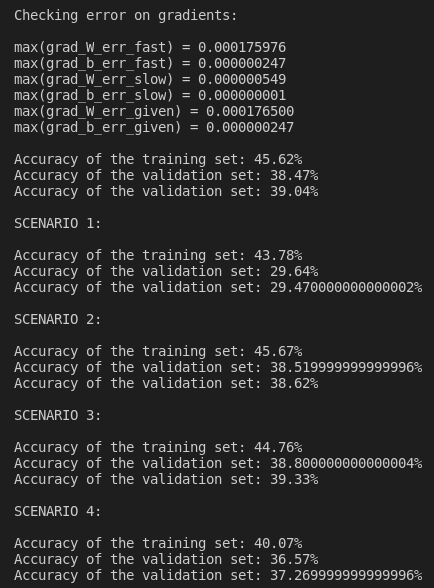
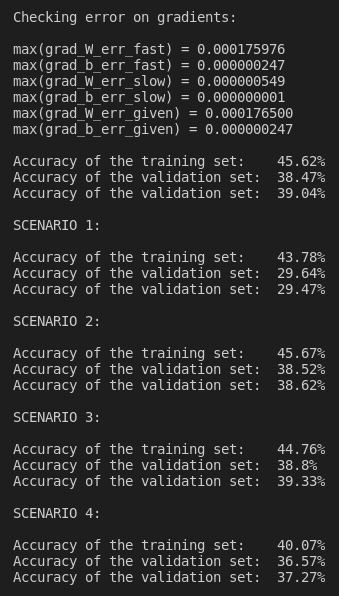
fixed displaying accuracies

Changed region(s): [[0.0295, 0.5816, 0.9735, 1.0], [0.0295, 0.0, 0.9735, 0.3367], [0.0295, 0.3673, 0.9735, 0.551]]

diff --git a/lab1.py b/lab1.py
@@ -232,39 +232,39 @@ def script(X_train, Y_train, X_valid, Y_valid, GDparams, lbda, scenario):
     acc_test = ComputeAccuracy(X_test, y_test, Wstar, bstar)
 
     print(f"SCENARIO {scenario}:\n")
-    print(f"Accuracy of the training set: {acc_train*100}%")
-    print(f"Accuracy of the validation set: {acc_valid*100}%")
-    print(f"Accuracy of the validation set: {acc_test*100}%\n")
+    print(f"Accuracy of the training set:\t {round(acc_train*100, 2)}%")
+    print(f"Accuracy of the validation set:\t {round(acc_valid*100, 2)}%")
+    print(f"Accuracy of the validation set:\t {round(acc_test*100, 2)}%\n")
 
-        # Plot learnt weight matrix
-    title = "Learnt weight matrix Wstar as class template images"
-    save_title = f"SCEN{scenario} - Wstar, lbda={lbda}, n_epochs={GDparams['n_epochs']}, n_batch={GDparams['n_batch']}, eta={GDparams['eta']}"
-    montage(Wstar, title, save_title)
+    #     # Plot learnt weight matrix
+    # title = "Learnt weight matrix Wstar as class template images"
+    # save_title = f"SCEN{scenario} - Wstar, lbda={lbda}, n_epochs={GDparams['n_epochs']}, n_batch={GDparams['n_batch']}, eta={GDparams['eta']}"
+    # montage(Wstar, title, save_title)
 
 
-        # Plot cost after each epoch
-    x_axis = np.array([np.arange(0, n_epochs), np.arange(0, n_epochs)])
-    y_axis = np.array([J_list_train, J_list_valid])
-    x_ticks = np.arange(0, n_epochs+1, 5)
-    legends = ["training", "validation"]
-    x_label = "epoch"
-    y_label = "cost function J"
-    title = "Cost after every epoch"
-    save_title = f"SCEN{scenario} - J, lbda={lbda}, n_epochs={GDparams['n_epochs']}, n_batch={GDparams['n_batch']}, eta={GDparams['eta']}"
+    #     # Plot cost after each epoch
+    # x_axis = np.array([np.arange(0, n_epochs), np.arange(0, n_epochs)])
+    # y_axis = np.array([J_list_train, J_list_valid])
+    # x_ticks = np.arange(0, n_epochs+1, 5)
+    # legends = ["training", "validation"]
+    # x_label = "epoch"
+    # y_label = "cost function J"
+    # title = "Cost after every epoch"
+    # save_title = f"SCEN{scenario} - J, lbda={lbda}, n_epochs={GDparams['n_epochs']}, n_batch={GDparams['n_batch']}, eta={GDparams['eta']}"
 
-    plot(x_axis, y_axis, x_ticks, legends, title, x_label, y_label, save_title)
+    # plot(x_axis, y_axis, x_ticks, legends, title, x_label, y_label, save_title)
 
-        # Plot loss after each epoch
-    x_axis = np.array([np.arange(0, n_epochs), np.arange(0, n_epochs)])
-    y_axis = np.array([loss_list_train, loss_list_valid])
-    x_ticks = np.arange(0, n_epochs+1, 5)
-    legends = ["training", "validation"]
-    x_label = "epoch"
-    y_label = "loss"
-    title = "Loss after every epoch"
-    save_title = f"SCEN{scenario} - Loss, lbda={lbda}, n_epochs={GDparams['n_epochs']}, n_batch={GDparams['n_batch']}, eta={GDparams['eta']}"
+    #     # Plot loss after each epoch
+    # x_axis = np.array([np.arange(0, n_epochs), np.arange(0, n_epochs)])
+    # y_axis = np.array([loss_list_train, loss_list_valid])
+    # x_ticks = np.arange(0, n_epochs+1, 5)
+    # legends = ["training", "validation"]
+    # x_label = "epoch"
+    # y_label = "loss"
+    # title = "Loss after every epoch"
+    # save_title = f"SCEN{scenario} - Loss, lbda={lbda}, n_epochs={GDparams['n_epochs']}, n_batch={GDparams['n_batch']}, eta={GDparams['eta']}"
 
-    plot(x_axis, y_axis, x_ticks, legends, title, x_label, y_label, save_title)
+    # plot(x_axis, y_axis, x_ticks, legends, title, x_label, y_label, save_title)
     
 
 
@@ -371,9 +371,9 @@ acc_train = ComputeAccuracy(X_train, y_train, Wstar, bstar)
 acc_valid = ComputeAccuracy(X_valid, y_valid, Wstar, bstar)
 acc_test = ComputeAccuracy(X_test, y_test, Wstar, bstar)
 
-print(f"\nAccuracy of the training set: {acc_train*100}%")
-print(f"Accuracy of the validation set: {acc_valid*100}%")
-print(f"Accuracy of the validation set: {acc_test*100}%\n")
+print(f"\nAccuracy of the training set:\t {round(acc_train*100, 2)}%")
+print(f"Accuracy of the validation set:\t {round(acc_valid*100, 2)}%")
+print(f"Accuracy of the validation set:\t {round(acc_test*100, 2)}%\n")
 
     # Plot learnt weight matrix
 title = "Learnt weight matrix Wstar as class template images"
@@ -404,7 +404,6 @@ title = "Loss after every epoch"
 save_title = f"Loss, lbda={lbda}, n_epochs={GDparams['n_epochs']}, n_batch={GDparams['n_batch']}, eta={GDparams['eta']}"
 
 plot(x_axis, y_axis, x_ticks, legends, title, x_label, y_label, save_title)
-
 
 ### SCENARIO 1
 
